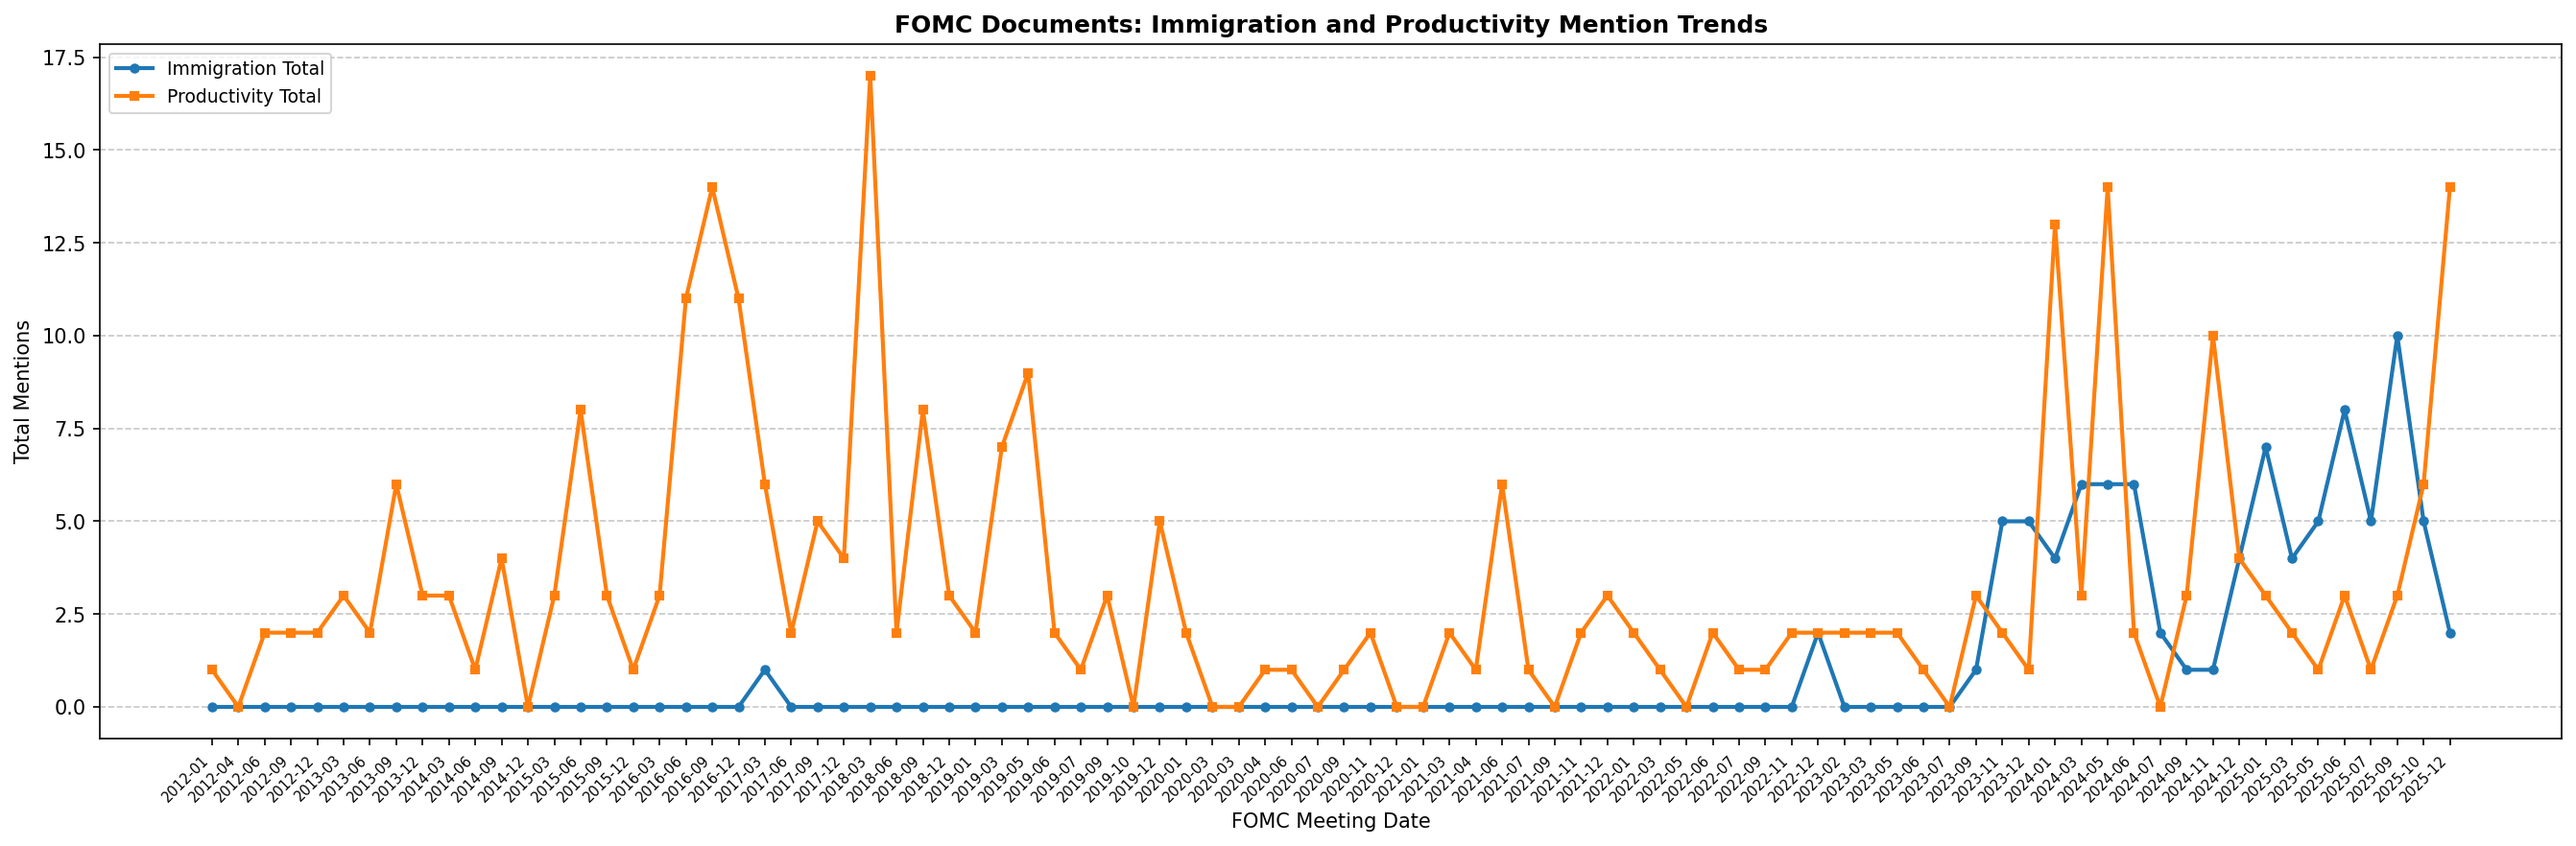
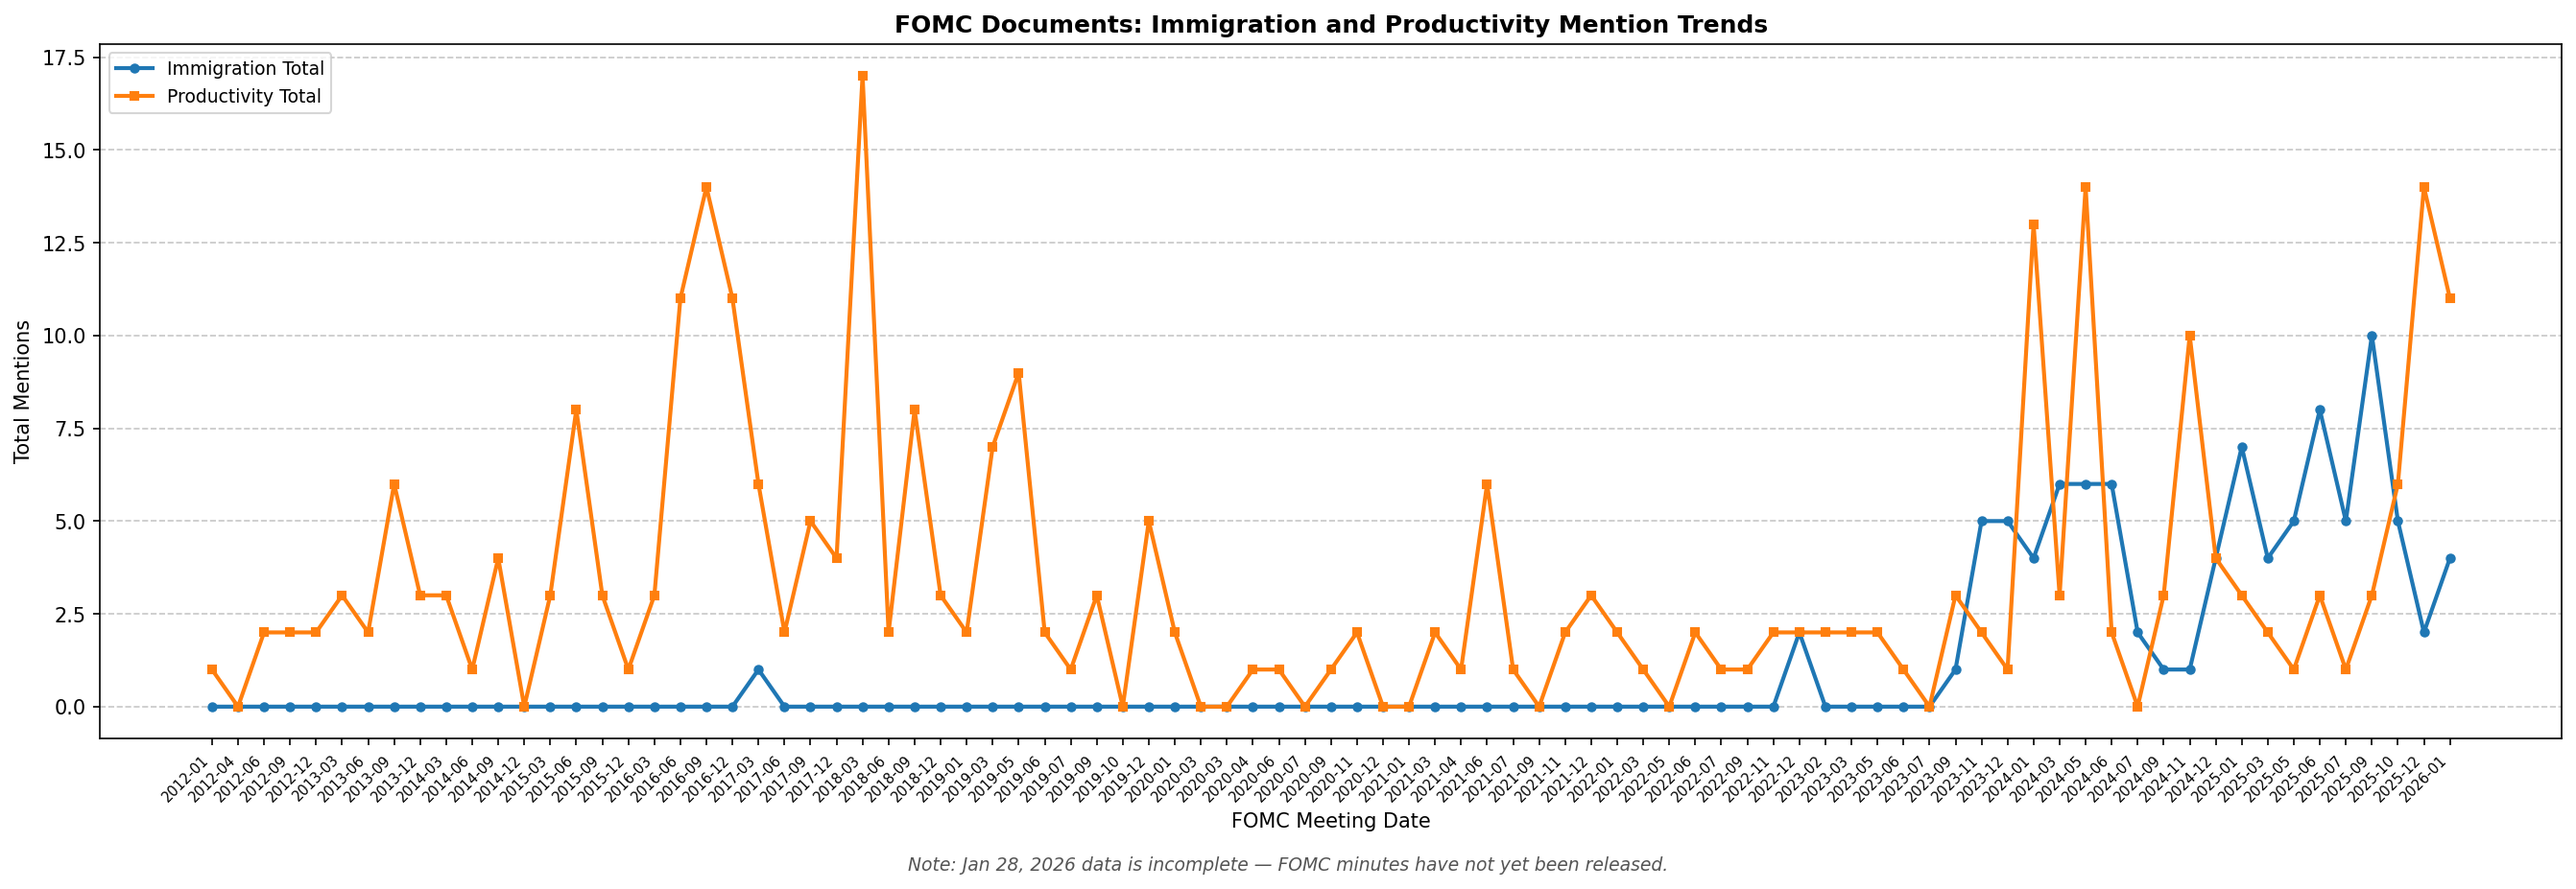
Add Jan 2026 press conference data with incomplete-data footnote
Re-include the Jan 28, 2026 transcript and regenerate charts with a
footnote noting that the FOMC minutes have not yet been released.

diff --git a/src/create_visualization.py b/src/create_visualization.py
@@ -124,6 +124,14 @@ def draw_line_chart(ax, data):
     ax.set_axisbelow(True)
 
 
+FOOTNOTE = "Note: Jan 28, 2026 data is incomplete — FOMC minutes have not yet been released."
+
+
+def add_footnote(fig):
+    """Add a footnote to the bottom of a figure."""
+    fig.text(0.5, -0.02, FOOTNOTE, ha='center', fontsize=9, fontstyle='italic', color='#555555')
+
+
 def create_visualization():
     """Create all three visualization outputs."""
 
@@ -143,6 +151,7 @@ def create_visualization():
     draw_bar_chart(ax1, data)
     draw_line_chart(ax2, data)
     plt.tight_layout()
+    add_footnote(fig)
     combined_path = OUTPUT_DIR / "fomc_word_trends.png"
     plt.savefig(combined_path, dpi=150, bbox_inches='tight')
     plt.close()
@@ -152,6 +161,7 @@ def create_visualization():
     fig, ax = plt.subplots(figsize=(18, 8))
     draw_bar_chart(ax, data)
     plt.tight_layout()
+    add_footnote(fig)
     bars_path = OUTPUT_DIR / "fomc_word_trends_bars.png"
     plt.savefig(bars_path, dpi=150, bbox_inches='tight')
     plt.close()
@@ -161,6 +171,7 @@ def create_visualization():
     fig, ax = plt.subplots(figsize=(18, 6))
     draw_line_chart(ax, data)
     plt.tight_layout()
+    add_footnote(fig)
     lines_path = OUTPUT_DIR / "fomc_word_trends_lines.png"
     plt.savefig(lines_path, dpi=150, bbox_inches='tight')
     plt.close()

diff --git a/README.md b/README.md
@@ -4,7 +4,7 @@ An end-to-end pipeline to scrape FOMC (Federal Open Market Committee) meeting mi
 
 ## Overview
 
-This project downloads official Federal Reserve documents and tracks how often the Fed discusses immigration and productivity over time. The analysis covers all FOMC meetings from 2012-2025.
+This project downloads official Federal Reserve documents and tracks how often the Fed discusses immigration and productivity over time. The analysis covers all FOMC meetings from 2012 through January 2026.
 
 ## Pipeline Steps
 
@@ -42,7 +42,7 @@ python src/create_visualization.py  # Step 3: Generate charts
 ## Output
 
 ### Data Files
-- `data/transcripts/` - FOMC press conference transcript PDFs (86 files)
+- `data/transcripts/` - FOMC press conference transcript PDFs (87 files)
 - `data/minutes/` - FOMC meeting minutes PDFs (85 files)
 - `data/word_counts.csv` - Extracted word counts
 
@@ -77,3 +77,5 @@ press-minutes-parser/
 ## Key Findings
 
 The analysis shows that "productivity" has been a consistent topic in FOMC discussions since 2012, while "immigration" was rarely mentioned until late 2023, with a significant increase in discussion frequency throughout 2024-2025.
+
+**Note:** The January 28, 2026 data point includes only the press conference transcript; the FOMC minutes have not yet been released.
